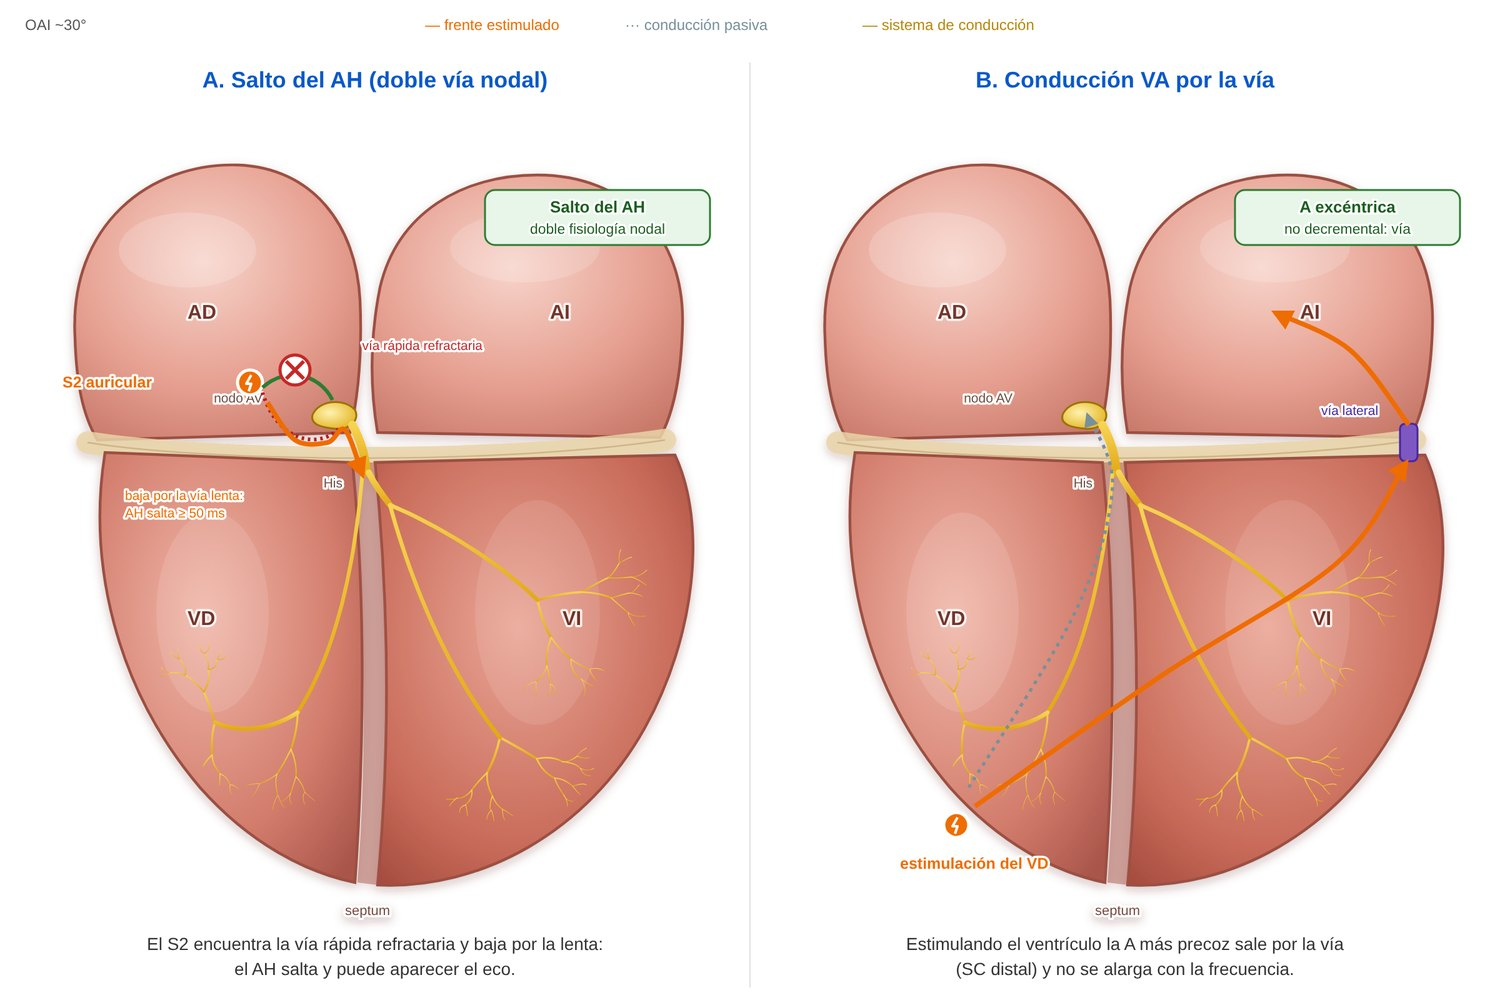
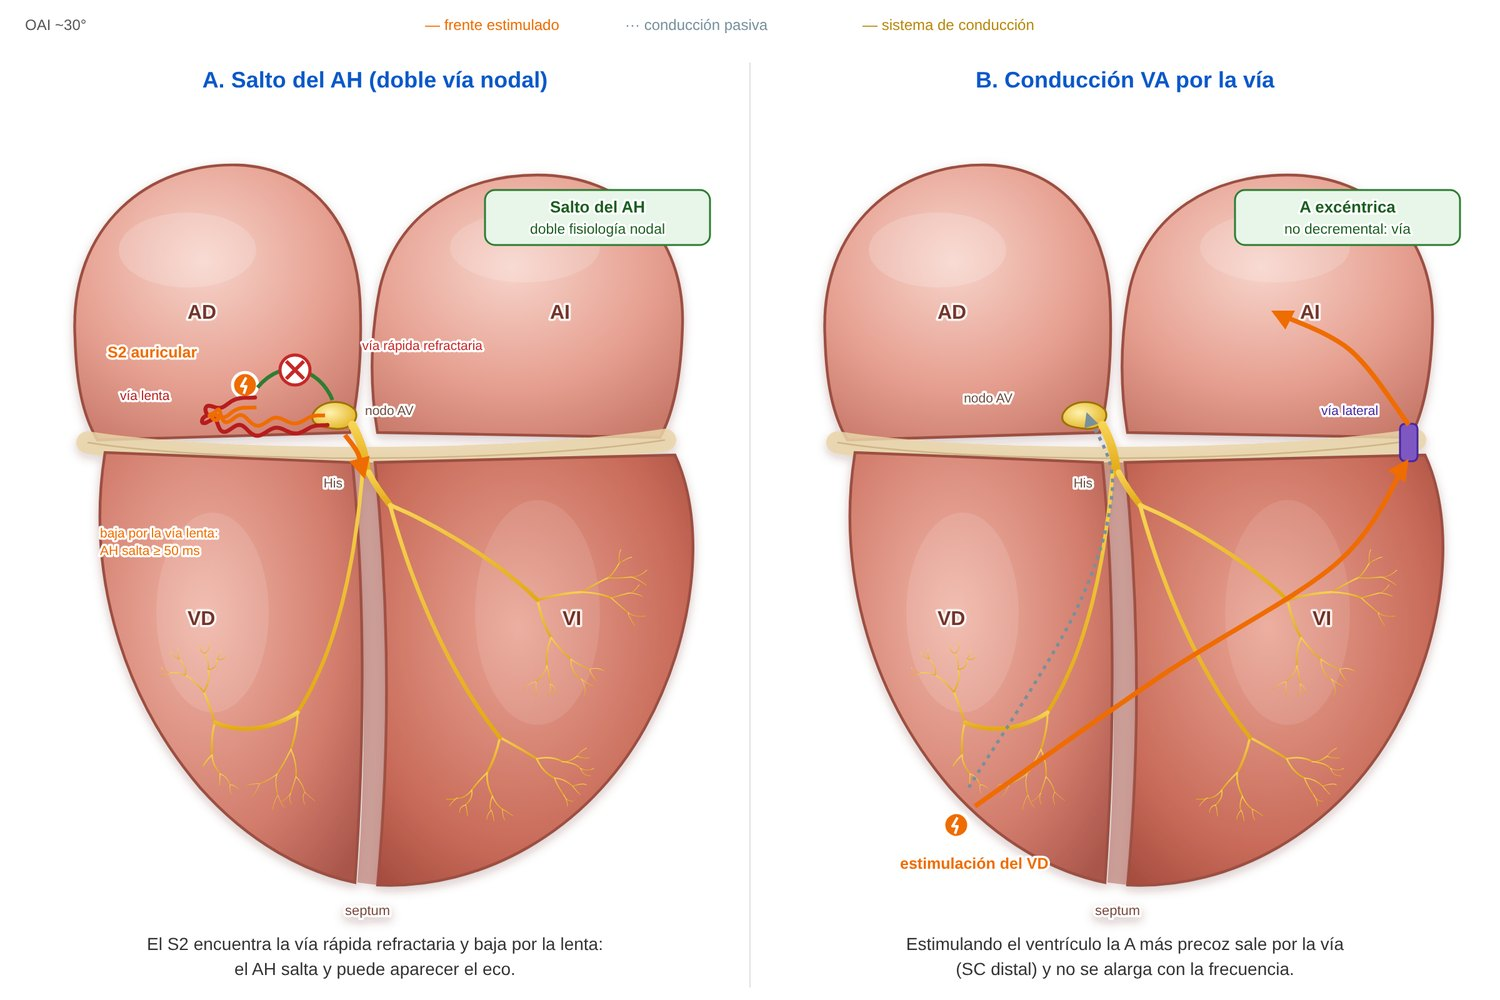
Esquema del estudio basal: vía lenta tortuosa
Claude-Session: https://claude.ai/code/session_01Pw5rjt62KK5LeJZoEyFiaM

Changed region(s): [[0.0307, 0.341, 0.276, 0.465], [0.0613, 0.465, 0.1533, 0.558]]

diff --git a/sw.js b/sw.js
@@ -1,6 +1,6 @@
 // Permite instalar la app y abrirla sin conexión. Primero la red (siempre lo último publicado); si no hay, la copia.
 // Si cambiás un archivo, subí CACHE_VERSION.
-const CACHE_VERSION = 'mef-v100';
+const CACHE_VERSION = 'mef-v101';
 const ARCHIVOS = ['./', './index.html', './manifest.json', './iconos/icon-192.png', './iconos/icon-512.png'];
 self.addEventListener('install', e => e.waitUntil(caches.open(CACHE_VERSION).then(c => c.addAll(ARCHIVOS)).then(() => self.skipWaiting())));
 self.addEventListener('activate', e => e.waitUntil(caches.keys().then(ks => Promise.all(ks.filter(k => k !== CACHE_VERSION).map(k => caches.delete(k)))).then(() => self.clients.claim())));

diff --git a/herramientas/esquemas/esquemas.py b/herramientas/esquemas/esquemas.py
@@ -30,6 +30,23 @@ def smooth(pts):
     return d
 
 
+def wavy(p0, p1, p2, p3, amp=5, waves=6, off=0, n=90):
+    """Trayecto tortuoso (vía lenta): bezier con ondulación perpendicular. off desplaza en paralelo."""
+    import math
+    pts = []
+    for i in range(n + 1):
+        u = i / n
+        x = (1-u)**3*p0[0] + 3*(1-u)**2*u*p1[0] + 3*(1-u)*u**2*p2[0] + u**3*p3[0]
+        y = (1-u)**3*p0[1] + 3*(1-u)**2*u*p1[1] + 3*(1-u)*u**2*p2[1] + u**3*p3[1]
+        dx = -3*(1-u)**2*p0[0] + 3*(1-u)**2*p1[0] - 6*(1-u)*u*p1[0] + 6*(1-u)*u*p2[0] - 3*u**2*p2[0] + 3*u**2*p3[0]
+        dy = -3*(1-u)**2*p0[1] + 3*(1-u)**2*p1[1] - 6*(1-u)*u*p1[1] + 6*(1-u)*u*p2[1] - 3*u**2*p2[1] + 3*u**2*p3[1]
+        L = math.hypot(dx, dy) or 1
+        nx, ny = -dy / L, dx / L
+        w = amp * math.sin(2 * math.pi * waves * u) * math.sin(math.pi * u) ** 0.5 + off
+        pts.append((x + nx * w, y + ny * w))
+    return 'M' + ' L'.join(f'{x:.1f},{y:.1f}' for x, y in pts)
+
+
 def circ(*pts):        # circuito de la taquicardia (azul punteado)
     return f'<path d="{smooth(pts)}" stroke="{BLUE}" stroke-width="3" fill="none" marker-end="url(#ab)" stroke-dasharray="6 4"/>'
 
@@ -135,12 +152,14 @@ F['basal'] = (
      'El impulso recorre el VI y sube por la vía: V y A se activan|en serie (VA > 70); la A más precoz está en el SC distal.'), LEG)
 
 F['pre'] = (
-    ('A. Salto del AH (doble vía nodal)', spark((200, 236), 'S2 auricular', -150, 4)
-     + '<path d="M210,240 C230,222 256,230 266,250" stroke="#2e7d32" stroke-width="3" fill="none"/>'
-     + '<path d="M210,244 C222,284 256,290 272,272" stroke="#b71c1c" stroke-width="3" fill="none" stroke-dasharray="2 3"/>'
-     + xmark((236, 226), 'vía rápida refractaria', 150, -16) + front((214, 252), (236, 282), (262, 284), (276, 274), (290, 310))
-     + note(100, 330, 'baja por la vía lenta:|AH salta ≥ 50 ms', ORANGE) + box('Salto del AH', 'doble fisiología nodal'),
-     'El S2 encuentra la vía rápida refractaria y baja por la lenta:|el AH salta y puede aparecer el eco.'),
+    ('A. Salto del AH (doble vía nodal)', spark((196, 238), 'S2 auricular', -110, -22)
+     + '<path d="M206,240 C228,214 256,226 266,250" stroke="#2e7d32" stroke-width="3" fill="none"/>'
+     + f'<path d="{wavy((204, 248), (110, 262), (200, 286), (262, 270), 4, 6)}" stroke="#b71c1c" stroke-width="3.2" fill="none" stroke-linecap="round"/>'
+     + f'<path d="{wavy((204, 248), (110, 262), (200, 286), (262, 270), 4, 6, off=-8)}" stroke="{ORANGE}" stroke-width="3" fill="none"/>'
+     + note(96, 250, 'vía lenta', '#b71c1c') + note(292, 262, 'nodo AV', '#6d4c41')
+     + xmark((236, 226), 'vía rápida refractaria', 150, -16) + front((276, 278), (286, 292), (291, 310))
+     + note(80, 360, 'baja por la vía lenta:|AH salta ≥ 50 ms', ORANGE) + box('Salto del AH', 'doble fisiología nodal'),
+     'El S2 encuentra la vía rápida refractaria y baja por la lenta:|el AH salta y puede aparecer el eco.', ('his',)),
     ('B. Conducción VA por la vía', spark(APEX, 'estimulación del VD') + via(LAT, 'vía lateral', lx=-70, ly=-22)
      + front((180, 575), (330, 470), (470, 380), (525, 300)) + front((527, 270), (480, 210), (420, 180))
      + faint((175, 560), (260, 420), (290, 320), (270, 262)) + box('A excéntrica', 'no decremental: vía', True),
